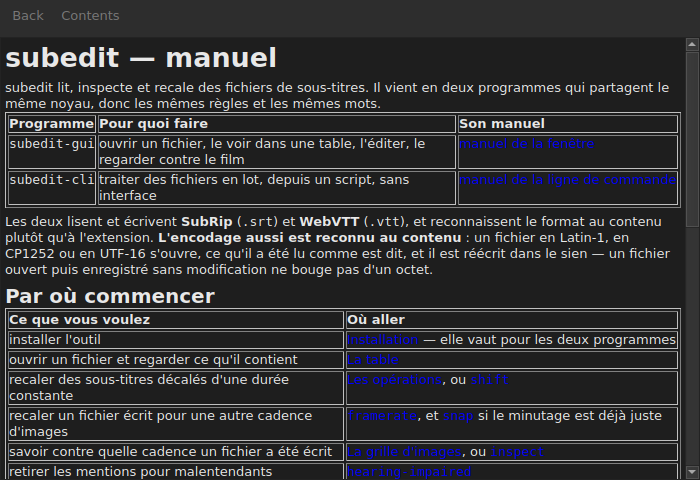
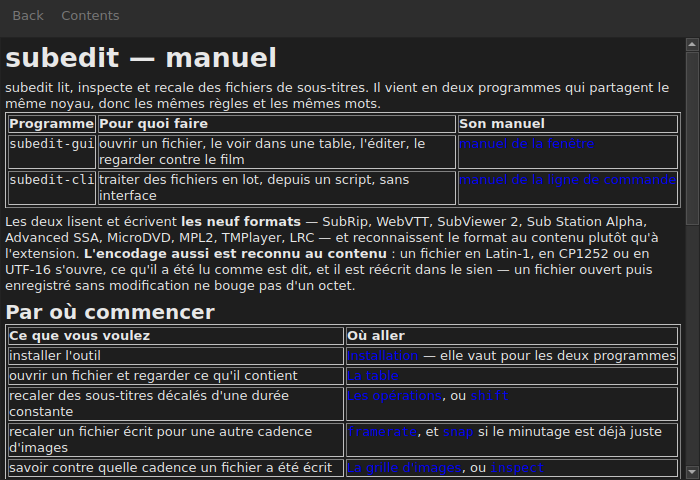
docs(doc): relecture de fin de phase 9
Troisième des trois issues qui encadrent la phase, après l'initialisation et le
cadrage. Elle ne produit pas de fonctionnalité : elle vérifie que la phase
tient. Elle a trouvé sept défauts, et ils sont corrigés ici.

Les trois relevés d'abord, parce que la phase a démarré outillée et que c'est ce
qui la distingue. La détection est à 19/19 sans une confusion. La table de
promesses n'a plus un seul NotYet et MicroDVD est resté Conditional, ce qui
était la question — passé à Bytes, il aurait promis une fréquence qu'aucun
fichier ne porte. Et la matrice de conversion a été comprise à chaque étape
plutôt que réenregistrée : ses deux baisses, 47/80 vers 60/126 puis vers
58/126, ont chacune leur section de prose, et la première explique même
pourquoi la seconde est un progrès.

Cinq défauts de manuel, tous de la même famille : la phase a écrit ses pages
neuves et laissé les anciennes. La première phrase du manuel annonçait encore
deux formats. L'invocation de la fenêtre aussi. Deux pages de la ligne de
commande parlaient d'une forme « qu'aucun des deux formats ne définit ». Et la
table des diagnostics s'intitulait « les neuf catégories » alors qu'il y en a
douze — les trois manquantes étant exactement celles de la phase, dont deux ne
parlent pas d'une ligne mais du fichier entier : elles disent qu'une valeur
affichée n'a pas été lue.

Le sixième touchait le code. La table de la fenêtre répondait « un point pour
[…]

Changed region(s): [[0.0, 0.4375, 0.99, 1.0]]

diff --git a/src/test/gui/subtitle_table_model_test.cpp b/src/test/gui/subtitle_table_model_test.cpp
@@ -87,14 +87,26 @@ TEST_CASE("the table shows start, end, duration and text", "[gui][GUI-TABLE-01]"
 
 TEST_CASE("the decimal mark follows the format the file will be written in",
           "[gui][GUI-TABLE-01]") {
-    // So that what is read on screen is what will end up in the file: SubRip
-    // writes a comma, WebVTT a period.
-    Project project = threeSubtitles();
-    project.setSourceFile(subedit::core::SourceFile{.format = SubtitleFormat::WebVtt});
-    Session session{std::move(project)};
-    const SubtitleTableModel model{session};
+    // **What is read on screen is what will end up in the file**, and phase 9
+    // is where that promise nearly stopped being true: the answer used to be
+    // « a point for WebVTT, a comma for anything else », which was right while
+    // there were two formats and wrong for six of the nine.
+    const auto shownAt = [](SubtitleFormat format) {
+        Project project = threeSubtitles();
+        project.setSourceFile(subedit::core::SourceFile{.format = format});
+        Session session{std::move(project)};
+        const SubtitleTableModel model{session};
+        return textAt(model, 0, 1);
+    };
 
-    CHECK(textAt(model, 0, 1) == "00:00:01.000");
+    CHECK(shownAt(SubtitleFormat::SubRip) == "00:00:01,000");
+    CHECK(shownAt(SubtitleFormat::WebVtt) == "00:00:01.000");
+    // The five that write a point and used to be shown with a comma.
+    CHECK(shownAt(SubtitleFormat::SubViewer2) == "00:00:01.000");
+    CHECK(shownAt(SubtitleFormat::SubStationAlpha) == "00:00:01.000");
+    CHECK(shownAt(SubtitleFormat::AdvancedSubStationAlpha) == "00:00:01.000");
+    CHECK(shownAt(SubtitleFormat::TMPlayer) == "00:00:01.000");
+    CHECK(shownAt(SubtitleFormat::Lrc) == "00:00:01.000");
 }
 
 TEST_CASE("every column says what it holds", "[gui][GUI-TABLE-01]") {

diff --git a/src/scripts/score-format-detection.py b/src/scripts/score-format-detection.py
@@ -80,11 +80,25 @@ NAMED = {
     "lrc": "LRC",
 }
 
-# Les extensions sous lesquelles un fichier de sous-titres se présente. `.txt`
-# n'y est pas, et son absence est un choix : il nomme TMPlayer et MPL2, et tout
-# le reste. Les seuls `.txt` du corpus privé sont des notes et des extraits de
-# manuel — les compter reviendrait à mesurer des refus mérités.
-SUBTITLE_SUFFIXES = (".srt", ".vtt", ".sub", ".ass", ".ssa", ".lrc")
+# Les extensions sous lesquelles un fichier de sous-titres se présente, **`.txt`
+# compris**.
+#
+# **Il en était exclu, et l'exclusion était écrite** : `.txt` nomme MPL2 et
+# TMPlayer et tout le reste, les seuls que le corpus privé porte sont des notes,
+# et les compter mesurait des refus mérités. L'argument est juste sur les
+# fichiers d'aujourd'hui ; ce qu'il coûte est plus grand que ce qu'il évite.
+#
+# **La sonde ne pouvait pas voir un MPL2 ni un TMPlayer**, donc la phrase du
+# journal — « le corpus privé n'en porte aucun » — était garantie par le filtre
+# plutôt que mesurée. C'est la forme exacte du défaut de #336 : vérifier avec
+# l'outil qui ne compte pas. Et c'est un filtre **par extension**, dans le seul
+# relevé dont toute la valeur tient à ce que l'extension n'entre nulle part dans
+# la décision.
+#
+# Ce qu'il en coûte de l'ôter est cinq refus de plus, et un refus n'est pas une
+# erreur : il dit qu'on ne sait pas, ce qui est vrai d'un fichier de notes. Le
+# journal les nomme pour ce qu'ils sont.
+SUBTITLE_SUFFIXES = (".srt", ".vtt", ".sub", ".ass", ".ssa", ".lrc", ".txt")
 
 # La forme d'un nom de format, et rien d'autre ne sera lu comme une réponse.
 # C'est la garde de #290, reprise telle quelle : un détecteur qui se plaint sur

diff --git a/src/lib/subedit/core/wording.hpp b/src/lib/subedit/core/wording.hpp
@@ -62,6 +62,22 @@ namespace subedit::core {
 /// The extension a file of that format is expected to carry, dot included.
 [[nodiscard]] std::string_view extensionOf(SubtitleFormat format);
 
+/// The decimal mark a file of that format carries between seconds and their
+/// fraction.
+///
+/// **SubRip is the only one of the nine that writes a comma**, and everything
+/// else that writes a fraction at all writes a point — WebVTT, SubViewer 2, the
+/// two Sub Station Alpha, TMPlayer, LRC. MicroDVD counts in frames and MPL2 in
+/// tenths inside brackets, so neither has a mark of its own; the point is what
+/// a surface shows for them, being the answer of the other seven.
+///
+/// **It exists because a surface has to agree with a writer.** The table of the
+/// window shows a position before the file holds it, and it promises to show
+/// what will be written; asking each writer would be asking eight questions,
+/// and testing WebVTT alone — which is what it did until phase 9 — answered
+/// « comma » for six formats that write a point.
+[[nodiscard]] DecimalMark decimalMarkOf(SubtitleFormat format);
+
 /// The name of a line ending, as a report writes it.
 [[nodiscard]] std::string_view nameOf(Newline newline);
 

diff --git a/src/test/unit/core/wording_test.cpp b/src/test/unit/core/wording_test.cpp
@@ -327,3 +327,23 @@ TEST_CASE("a name a command line takes leads back to its format", "[cli][wording
     CHECK_FALSE(formatNamed("txt").has_value());
     CHECK_FALSE(formatNamed("").has_value());
 }
+
+TEST_CASE("SubRip is the only one of the nine that writes a comma", "[wording]") {
+    using subedit::core::DecimalMark;
+    using subedit::core::decimalMarkOf;
+    using subedit::core::kSubtitleFormats;
+    using subedit::core::SubtitleFormat;
+
+    // **Asked of the vocabulary rather than of each writer**, so that a surface
+    // showing a position before the file holds it cannot disagree with the
+    // writer that will hold it. MicroDVD counts in frames and MPL2 in tenths
+    // inside brackets: neither has a mark of its own, and the point is what the
+    // other seven answer.
+    CHECK(decimalMarkOf(SubtitleFormat::SubRip) == DecimalMark::Comma);
+    for (const SubtitleFormat format : kSubtitleFormats) {
+        if (format == SubtitleFormat::SubRip)
+            continue;
+        INFO("format : " << nameOf(format));
+        CHECK(decimalMarkOf(format) == DecimalMark::Period);
+    }
+}

diff --git a/src/lib/subedit/gui/subtitle_table_model.cpp b/src/lib/subedit/gui/subtitle_table_model.cpp
@@ -34,7 +34,6 @@ using core::AnomalyKind;
 using core::Change;
 using core::ChangeKind;
 using core::DecimalMark;
-using core::SubtitleFormat;
 
 /// Which anomaly a row is named and tinted by when it carries several.
 ///
@@ -109,8 +108,7 @@ constexpr QColor kShowingTint{40, 160, 90, kWash};
 /// position would be worse to read than one that is merely not the file's exact
 /// spelling.
 [[nodiscard]] DecimalMark markOf(const core::Project& project) {
-    return project.sourceFile().format == SubtitleFormat::WebVtt ? DecimalMark::Period
-                                                                 : DecimalMark::Comma;
+    return core::decimalMarkOf(project.sourceFile().format);
 }
 
 [[nodiscard]] QString written(core::Timestamp position, DecimalMark mark) {

diff --git a/src/lib/subedit/core/wording.cpp b/src/lib/subedit/core/wording.cpp
@@ -106,6 +106,10 @@ std::string_view extensionOf(SubtitleFormat format) {
     std::unreachable();
 }
 
+DecimalMark decimalMarkOf(SubtitleFormat format) {
+    return format == SubtitleFormat::SubRip ? DecimalMark::Comma : DecimalMark::Period;
+}
+
 std::string_view nameOf(Newline newline) {
     switch (newline) {
     case Newline::Lf:

diff --git a/docs/mesures/couverture.md b/docs/mesures/couverture.md
@@ -21,6 +21,47 @@ décision et les alternatives écartées sont dans
 `make ratchet` réécrit ce fichier depuis la dernière mesure. **Il n'écrit jamais
 de lui-même :** un fichier versionné ne bouge que si quelqu'un le demande.
 
+## Ce que les lignes non couvertes sont, par famille
+
+**Relu d'un bloc à la relecture de la phase 9**, et la raison de le faire est
+dans la forme du chiffre : il monte d'une ou deux lignes à la fois, chacune pour
+un motif juste, chacune justifiée ici à sa date. Rien n'oblige alors à poser la
+question qui compte — **le total dit-il encore quelque chose ?**
+
+Il le dit, à condition de ne pas le lire comme une quantité. Les soixante-six
+lignes se rangent en quatre familles, et elles ne se valent pas :
+
+| Famille | Lignes | Ce qu'un test devrait faire pour l'atteindre |
+| :------ | -----: | :------------------------------------------- |
+| une boucle modale de Qt | 46 | cliquer ; `exec()` ne rend la main à personne d'autre |
+| le monde extérieur qui échoue | 11 | faire rater un `fork`, provoquer un `EINTR`, remplir un disque |
+| libmpv, pour de vrai | 4 | une bibliothèque et un serveur d'affichage dans la porte |
+| **une garde que l'appelant rend inatteignable** | **5** | rien : il faudrait l'atteindre par un chemin que le code interdit |
+
+Les trois premières sont **irréductibles par construction**, et leur compte ne
+bouge qu'avec la surface : une modale de plus, un appel système de plus. Les
+justifier une à une est le bon geste, et c'est ce que la suite de ce fichier
+fait depuis la phase 5.
+
+**La quatrième est celle qui grossit, et c'est la seule qui se discute.** Ce sont
+cinq gardes — un produit saturé dont un facteur est nul, une durée partagée en
+zéro parts, un `togglePlayback` sans film, un dialogue qui n'aurait rien retenu.
+Chacune protège un déréférencement ou une division, chacune est **juste**, et
+aucune n'est atteignable : ce qui les rend inatteignables est précisément ce qui
+les rend nécessaires — l'appelant vérifie déjà.
+
+**La leçon, et elle a une date.** En phase 9, deux fonctions du pivot de balises
+portaient des bras de `switch` du même genre ; elles ont été **réécrites** plutôt
+que justifiées, parce que là l'arm inatteignable pouvait disparaître sans rien
+affaiblir — `applyOpening` côté HTML, `appendOff` côté SSA. C'est l'arbitrage à
+refaire chaque fois : **une garde qu'on peut supprimer sans perdre la protection
+se supprime ; une garde qui protège vraiment se garde et se compte.** Les cinq
+d'aujourd'hui sont du second cas.
+
+Ce que cette table change, pour la suite : un relèvement se juge contre la
+famille où il tombe, et non contre le total. Cinq lignes de modale de plus sont
+un fait de surface ; une sixième garde inatteignable est une question.
+
 ## Ce que le cliquet a laissé passer, et pourquoi
 
 Le relever est une décision, pas un ajustement. Chaque relèvement se justifie

diff --git a/docs/mesures/detection-de-format.md b/docs/mesures/detection-de-format.md
@@ -94,9 +94,9 @@ elle seule.** Un plein ne se relâche pas ; il se surveille.
 
 ## Corpus privé — sans étiquettes
 
-`src/data/`, des fichiers réels. **Il ne donne aucun taux** : il n'y a pas de
-vérité à lui confronter, et s'en inventer une serait pire que de n'en pas avoir.
-Ce qu'il donne est la distribution des réponses.
+`src/data/`, soixante-dix-huit fichiers réels. **Il ne donne aucun taux** : il
+n'y a pas de vérité à lui confronter, et s'en inventer une serait pire que de
+n'en pas avoir. Ce qu'il donne est la distribution des réponses.
 
 | Réponse | Fichiers |
 | :------ | -------: |
@@ -104,17 +104,34 @@ Ce qu'il donne est la distribution des réponses.
 | SubRip | 17 |
 | MicroDVD | 1 |
 | Advanced SSA | 1 |
-| refusé | 0 |
+| refusé | 5 |
 
-**Les deux derniers refus ont été des reconnaissances**, un MicroDVD et un
-Advanced SSA, tous deux réels, tous deux nommés par les lecteurs de la phase.
+**Les deux derniers refus sur un vrai sous-titre ont été des reconnaissances**,
+un MicroDVD et un Advanced SSA, tous deux réels, tous deux nommés par les
+lecteurs de la phase.
 C'est la confirmation de ce que l'initialisation de la phase (#336) avait fini
 par trouver après s'être trompée : le corpus privé porte autre chose que du
 `.srt` et du `.vtt`, et le relevé qui disait le contraire filtrait son parcours
 sur ces deux extensions.
 
-**Le corpus privé ne dit rien de TMPlayer ni de LRC** : il n'en porte aucun. Ce
-que ces deux formats-là ont pour eux est la scène de #338, et rien de réel.
+**Les cinq refus sont mérités, et ils sont entrés au relevé à la relecture de la
+phase.** Ce sont des notes et un extrait de texte, portant l'extension `.txt` ;
+la détection dit qu'elle ne sait pas, ce qui est la bonne réponse. Un refus
+n'est pas une confusion, et c'est la confusion seule qui fait échouer.
+
+**Ils n'y étaient pas, et leur absence était un filtre.** La sonde ne parcourait
+pas les `.txt`, au motif que les seuls du corpus étaient ces notes-là. L'argument
+valait sur les fichiers d'un jour ; ce qu'il coûtait était plus grand — `.txt`
+nomme **MPL2 et TMPlayer**, donc la sonde ne pouvait pas voir un fichier de ces
+deux formats, et la phrase ci-dessous était garantie par le filtre plutôt que
+mesurée. C'est la forme exacte du défaut de #268 et de #273 : vérifier avec
+l'outil qui ne compte pas. Dans le seul relevé dont toute la valeur tient à ce
+que **l'extension n'entre nulle part dans la décision**, un filtre par extension
+n'avait pas sa place.
+
+**Le corpus privé ne dit rien de TMPlayer ni de LRC** : il n'en porte aucun —
+et c'est mesuré depuis que la sonde regarde les `.txt`. Ce que ces deux
+formats-là ont pour eux est la scène de #338, et rien de réel.
 
 ## Ce que la première version de la sonde a appris
 

diff --git a/docs/mesures/performances.md b/docs/mesures/performances.md
@@ -472,6 +472,41 @@ extrêmes survivent dans la table ci-dessus.
 
 <!-- relevés -->
 
+### 0.10.0 — 2026-09-10 — Release — charge 1.39 — allure ×0.97
+
+| Mesure | Moyenne | Écart-type |
+| :----- | ------: | ---------: |
+| la réplique en cours, sur 4000 sous-titres | 5.62 µs | 1.94 µs |
+| composer une réplique de deux lignes | 181 ns | 48 ns |
+| ouvrir une vidéo | 9.06 ms | 344 µs |
+| chercher une position | 579 µs | 182 µs |
+| construction du modèle sur 4000 sous-titres | 8.72 µs | 2.87 µs |
+| une fenêtre de 40 lignes, cinq colonnes | 17.7 µs | 614 ns |
+| rafraîchir après un décalage de 4000 sous-titres | 8.43 µs | 4.59 µs |
+| réinitialisation du modèle après une ligne retirée | 9.6 µs | 3.68 µs |
+| édition d'une cellule de texte | 445 ns | 237 ns |
+| édition d'une cellule de position | 10.3 µs | 1.21 µs |
+| versionString | 40.4 ns | 10.8 ns |
+| parse | 37.9 ns | 11 ns |
+| format | 35.9 ns | 0.881 ns |
+| position vers image | 7.62 ns | 0.0831 ns |
+| image vers position | 6.64 ns | 0.0693 ns |
+| mise à l'échelle par un rationnel exact | 7.24 ns | 1.65 ns |
+| lecture de 4000 sous-titres | 2.11 ms | 162 µs |
+| écriture de 4000 sous-titres | 520 µs | 47.5 µs |
+| décalage de 4000 sous-titres | 8.96 µs | 2.76 µs |
+| décalage puis annulation | 15 µs | 3.32 µs |
+| transformation de 4000 sous-titres | 85.8 µs | 15.1 µs |
+| conversion de fréquence sur 4000 sous-titres | 73.3 µs | 18 µs |
+| alignement sur 4000 sous-titres | 146 µs | 11.1 µs |
+| tri de 4000 sous-titres à l'envers | 279 µs | 48.5 µs |
+| suppression d'un sous-titre sur deux | 187 µs | 89.1 µs |
+| suppression puis annulation | 266 µs | 18.6 µs |
+| insertion de 100 sous-titres vides au milieu | 58.7 µs | 21.7 µs |
+| modification d'un texte, à travers une session | 243 ns | 261 ns |
+| suppression des mentions sur 4000 sous-titres | 1.05 ms | 37.4 µs |
+| déduction de fréquence sur 4000 sous-titres | 421 µs | 13 µs |
+
 ### 0.9.24 — 2026-09-10 — Release — charge 0.89 — allure ×0.97
 
 | Mesure | Moyenne | Écart-type |

diff --git a/docs/manual/subedit-cli/invocation.md b/docs/manual/subedit-cli/invocation.md
@@ -109,7 +109,7 @@ marque — mais sans le dire ; ici l'écart entre ce qui a été demandé et ce 
 <!-- exemple: subedit-cli --version -->
 ```console
 $ subedit-cli --version
-subedit 0.9.24
+subedit 0.10.0
 ```
 
 ## Sous-commandes
@@ -257,7 +257,7 @@ suit — le numéro fautif est dans le `("…")`. Seules les anomalies qui porte
 **une ligne** — un horodatage illisible, du texte avant le premier — se
 rapportent sur elles-mêmes.
 
-### Les neuf catégories
+### Les douze catégories
 
 | Phrase | Ce qui la déclenche |
 | :----- | :------------------ |
@@ -267,9 +267,17 @@ rapportent sur elles-mêmes.
 | `SubRip numbers that do not follow` | numérotation qui saute |
 | `text before the first timing line` | du texte avant le premier horodatage |
 | `a WebVTT block of an unknown kind` | un bloc WebVTT non reconnu |
+| `declares an event column this tool cannot fill` | une colonne d'événement Sub Station Alpha que rien ici ne remplit |
+| `counts in frames and states no rate; it was read at` | un fichier en images, qui n'énonce aucune fréquence — celle retenue est le détail |
+| `carries no end times; each one was taken from the next start` | un format sans fin, TMPlayer ou LRC : **aucune fin de la table ne vient du fichier** |
 | `more than one kind of line ending` | des fins de ligne mélangées |
 | `an encoding nothing declared` | l'encodage a été proposé en pesant les octets, et il n'est pas de l'UTF-8 |
 | `a byte order mark that contradicts the encoding asked for` | le fichier porte une marque, et `--encoding` en nommait un autre — la marque l'emporte |
+
+**Les trois du milieu sont celles de la phase 9**, et les deux dernières de ces
+trois-là ne parlent pas d'une ligne mais du fichier entier : elles disent qu'une
+valeur affichée n'a pas été lue. Une colonne `End` remplie sur un LRC, une
+position sur un MicroDVD — le fichier n'en portait rien.
 
 ## Plusieurs fichiers
 

diff --git a/docs/manual/subedit-gui/table.md b/docs/manual/subedit-gui/table.md
@@ -25,7 +25,19 @@ insertion ou une suppression renumérote donc tout ce qui suit, sans que rien ne
 soit réécrit.
 
 **Le séparateur décimal suit le format du fichier** : une virgule pour SubRip,
-un point pour WebVTT. Ce qui s'affiche est ce qui sera écrit.
+un point pour les huit autres. SubRip est le seul des neuf à écrire une virgule.
+
+**C'est le séparateur qui suit, pas l'orthographe entière.** La table écrit
+toujours les heures et toujours trois décimales ; un fichier WebVTT omet les
+heures sous une heure, SubViewer 2 et les deux Sub Station Alpha comptent au
+centième, MPL2 au dixième, TMPlayer à la seconde, MicroDVD en images. Une
+colonne dont la largeur suivrait le format serait plus pénible à lire qu'une
+colonne qui n'est simplement pas l'orthographe exacte du fichier.
+
+Ce que la table garantit est donc **la valeur et le séparateur**, non le nombre
+de décimales. Ce qu'un format d'arrivée arrondirait est dit au moment de
+l'enregistrement — voir
+[Ce qu'un format ne portera pas](fichiers.md#ce-quun-format-ne-portera-pas-dit-avant-décrire).
 
 **La durée (`Duration`) est calculée**, jamais saisie. Un sous-titre dont la fin précède le
 début affiche une durée négative plutôt que zéro : c'est une anomalie du

diff --git a/docs/manual/index.md b/docs/manual/index.md
@@ -8,7 +8,8 @@ programmes qui partagent le même noyau, donc les mêmes règles et les mêmes m
 | `subedit-gui` | ouvrir un fichier, le voir dans une table, l'éditer, le regarder contre le film | [manuel de la fenêtre](subedit-gui/index.md) |
 | `subedit-cli` | traiter des fichiers en lot, depuis un script, sans interface | [manuel de la ligne de commande](subedit-cli/index.md) |
 
-Les deux lisent et écrivent **SubRip** (`.srt`) et **WebVTT** (`.vtt`), et
+Les deux lisent et écrivent **les neuf formats** — SubRip, WebVTT, SubViewer 2,
+Sub Station Alpha, Advanced SSA, MicroDVD, MPL2, TMPlayer, LRC — et
 reconnaissent le format au contenu plutôt qu'à l'extension. **L'encodage aussi
 est reconnu au contenu** : un fichier en Latin-1, en CP1252 ou en UTF-16
 s'ouvre, ce qu'il a été lu comme est dit, et il est réécrit dans le sien — un
